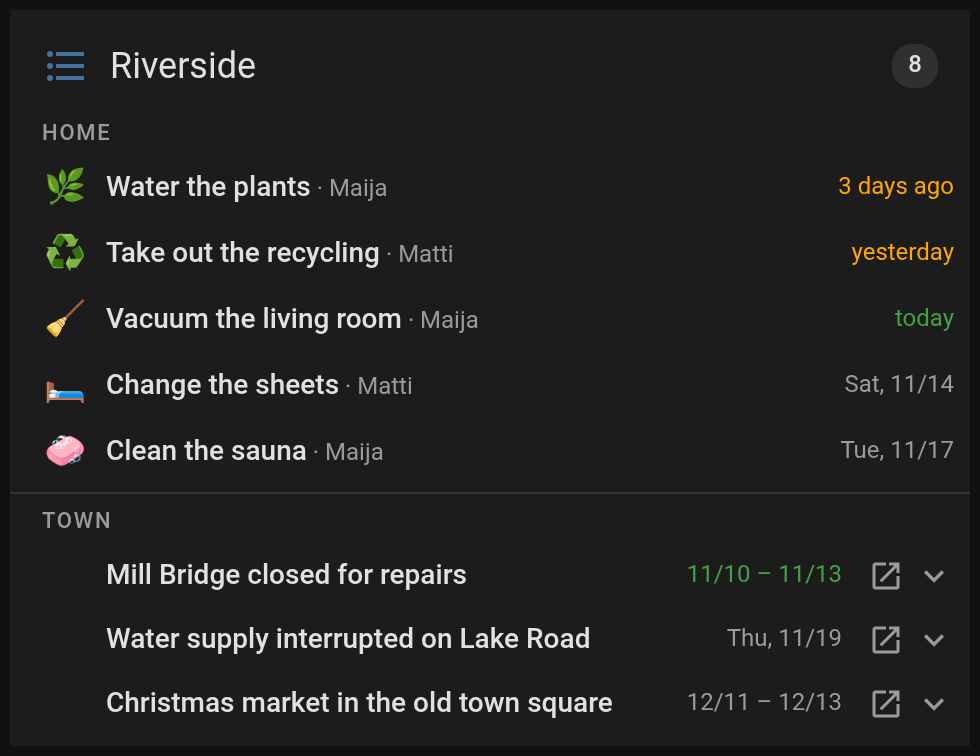
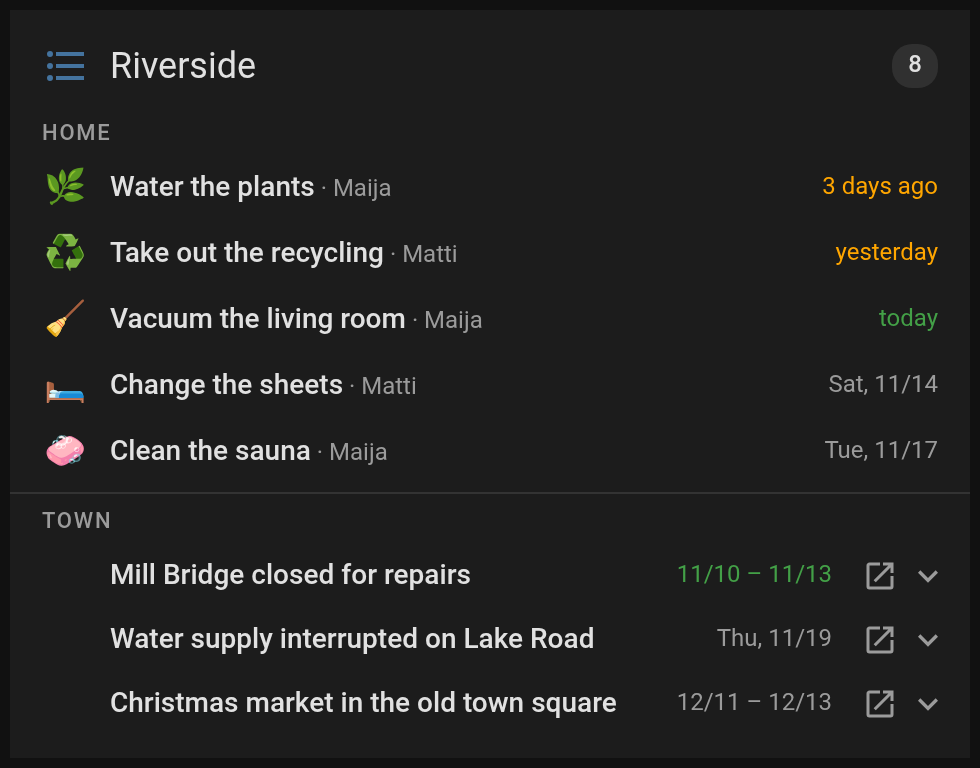
Even paddings: one right edge, titles under the header's, room under the last line

diff --git a/dist/lists-card.js b/dist/lists-card.js
@@ -1,4 +1,4 @@
-/*! lists-card 1.0.0 | MIT License */
+/*! lists-card 1.0.1 | MIT License */
 var __defProp = Object.defineProperty;
 var __getOwnPropDesc = Object.getOwnPropertyDescriptor;
 var __decorateClass = (decorators, target, key, kind) => {
@@ -711,7 +711,7 @@ var c4 = e5(class extends i5 {
 });
 
 // src/const.ts
-var CARD_VERSION = "1.0.0";
+var CARD_VERSION = "1.0.1";
 
 // src/localize/languages/en.json
 var en_default = {
@@ -1509,7 +1509,7 @@ var HEADER_PX = 44;
 var HEADING_PX = 24;
 var ITEM_PX = 88;
 var BORDER_PX = 2;
-var LIST_BOTTOM_PX = 6;
+var LIST_BOTTOM_PX = 12;
 var px = (value) => parseFloat(value) || 0;
 var CARD_PARTS = [".hd", ".list"].map((part) => `:scope > ${part}`).join(", ");
 var ICON_NAME = /^[a-z0-9-]+:[a-z0-9-]+$/i;
@@ -2080,7 +2080,7 @@ var ListsCard = class extends i4 {
                 .list {
                     flex: 1 1 auto;
                     min-height: 0;
-                    padding: calc(4px + var(--lc-spare, 0px)) 0 6px;
+                    padding: calc(4px + var(--lc-spare, 0px)) 0 12px;
                 }
 
                 .grp + .grp {
@@ -2172,7 +2172,7 @@ var ListsCard = class extends i4 {
 
                 .item {
                     position: relative;
-                    padding: 4px 8px 4px 16px;
+                    padding: 4px 16px;
                 }
 
                 /* The tap that opens an item covers it, and its texts let the tap through. The source link lies over it. */
@@ -2210,7 +2210,7 @@ var ListsCard = class extends i4 {
                     flex-wrap: wrap;
                     justify-content: flex-end;
                     align-items: flex-start;
-                    gap: 0 8px;
+                    gap: 0 10px;
                     min-height: 24px;
                 }
 
@@ -2266,11 +2266,13 @@ var ListsCard = class extends i4 {
                     color: var(--lc-highlight);
                 }
 
+                /* The buttons' icons are smaller than the buttons, so the row is pulled out until the last icon ends where the texts do. */
                 .act {
                     flex: none;
                     display: flex;
                     align-items: center;
                     height: 24px;
+                    margin-right: -5px;
                 }
 
                 .src {
@@ -2291,7 +2293,7 @@ var ListsCard = class extends i4 {
                 }
 
                 .sub {
-                    padding: 0 8px 0 32px;
+                    padding: 0 0 0 34px;
                 }
 
                 .lb {

diff --git a/src/lists-card.ts b/src/lists-card.ts
@@ -48,7 +48,7 @@ const HEADER_PX = 44;
 const HEADING_PX = 24;
 const ITEM_PX = 88;
 const BORDER_PX = 2;
-const LIST_BOTTOM_PX = 6;
+const LIST_BOTTOM_PX = 12;
 
 const px = (value: string) => parseFloat(value) || 0;
 
@@ -733,7 +733,7 @@ export class ListsCard extends LitElement {
                 .list {
                     flex: 1 1 auto;
                     min-height: 0;
-                    padding: calc(4px + var(--lc-spare, 0px)) 0 6px;
+                    padding: calc(4px + var(--lc-spare, 0px)) 0 12px;
                 }
 
                 .grp + .grp {
@@ -825,7 +825,7 @@ export class ListsCard extends LitElement {
 
                 .item {
                     position: relative;
-                    padding: 4px 8px 4px 16px;
+                    padding: 4px 16px;
                 }
 
                 /* The tap that opens an item covers it, and its texts let the tap through. The source link lies over it. */
@@ -863,7 +863,7 @@ export class ListsCard extends LitElement {
                     flex-wrap: wrap;
                     justify-content: flex-end;
                     align-items: flex-start;
-                    gap: 0 8px;
+                    gap: 0 10px;
                     min-height: 24px;
                 }
 
@@ -919,11 +919,13 @@ export class ListsCard extends LitElement {
                     color: var(--lc-highlight);
                 }
 
+                /* The buttons' icons are smaller than the buttons, so the row is pulled out until the last icon ends where the texts do. */
                 .act {
                     flex: none;
                     display: flex;
                     align-items: center;
                     height: 24px;
+                    margin-right: -5px;
                 }
 
                 .src {
@@ -944,7 +946,7 @@ export class ListsCard extends LitElement {
                 }
 
                 .sub {
-                    padding: 0 8px 0 32px;
+                    padding: 0 0 0 34px;
                 }
 
                 .lb {

diff --git a/README.md b/README.md
@@ -158,8 +158,8 @@ them.
 
 Held to a height, by rows set in the layout tab or by `height` or `max_height`, the header stays where it is and the
 lists scroll under it. Titles, labels and headings then keep to one line each, cut short with their whole text as a
-tooltip. The card never gets lower than its header, one heading and one item with two lines of text need, which is 168
-pixels with a header and 124 without.
+tooltip. The card never gets lower than its header, one heading and one item with two lines of text need, which is 174
+pixels with a header and 130 without.
 
 ## Examples
 
